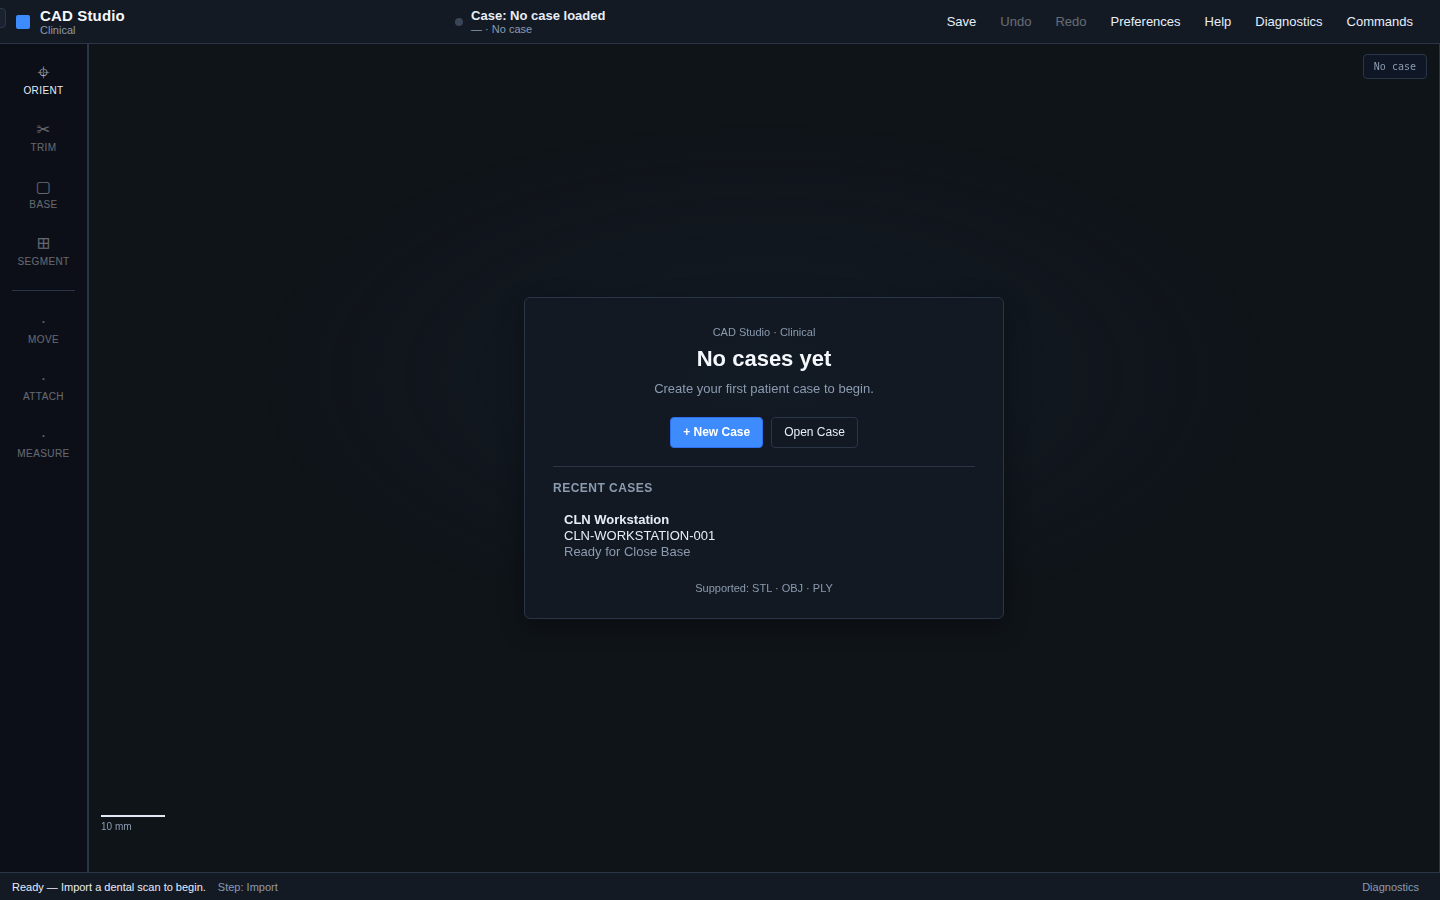
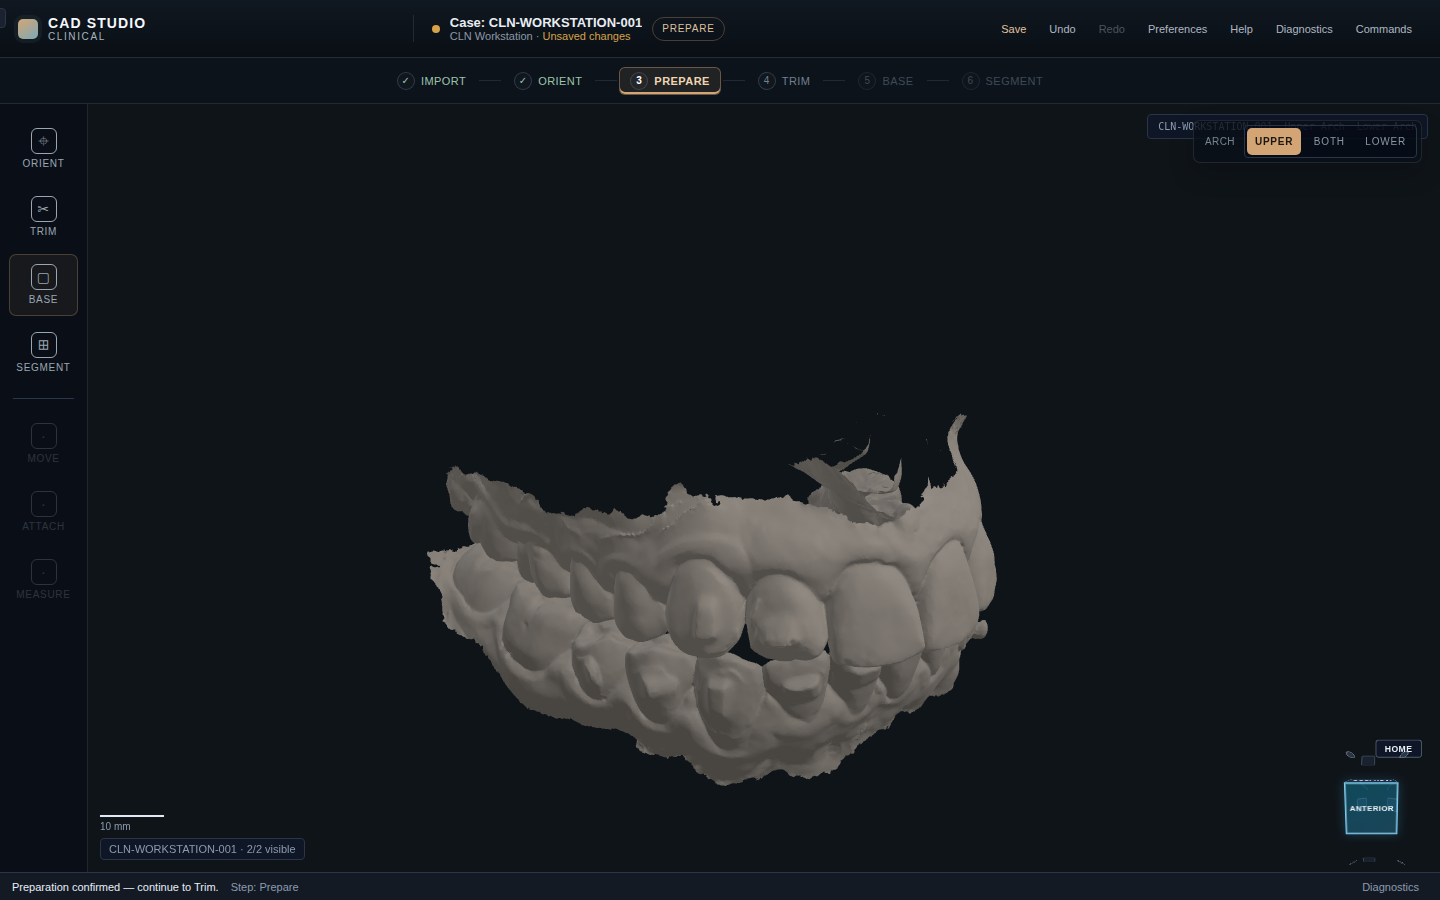
final fixes

diff --git a/apps/studio/src/clinical/trim/ClinicalTrimController.ts b/apps/studio/src/clinical/trim/ClinicalTrimController.ts
@@ -890,31 +890,6 @@ export class ClinicalTrimController {
     return backend instanceof HybridGeometryBackend ? backend : undefined;
   }
 
-  /** GEO-003: drawing/ops require warmed clinical spatial + context. */
-  private requireEditingReady(): ClinicalResult<void> {
-    const objectId = this.session.getState().targetObjectId as string | undefined;
-    const mesh = this.resolveWorkingMesh(objectId);
-    if (mesh === undefined) {
-      return clinicalFailure('not-found', 'No working geometry for trim target');
-    }
-    if (isGeometryEditingReady(mesh.objectId, mesh.fingerprint)) {
-      return clinicalSuccess(undefined);
-    }
-    const status = geometryWarmup.getStatus(mesh.objectId);
-    if (status?.state === 'FAILED' && status.geometryFingerprint === mesh.fingerprint) {
-      const msg = 'Editing tools could not be prepared.';
-      this.session.patchStatus(msg);
-      this.clinicalSession.notifyUi();
-      return clinicalFailure('unavailable', msg);
-    }
-    const msg =
-      getEditingReadinessMessage(mesh.objectId, mesh.fingerprint) ??
-      'Preparing editing tools…';
-    this.session.patchStatus(msg);
-    this.clinicalSession.notifyUi();
-    return clinicalFailure('unavailable', msg);
-  }
-
   private scheduleRewarm(mesh: TriangleMesh): void {
     const doc = this.clinicalSession.getPublicState().activeCase;
     const archRole = doc?.objects.find((o) => (o.id as string) === mesh.objectId)?.archRole;

diff --git a/apps/studio/src/geometry-kernel/adapters/VtkHttpWorkerBackend.ts b/apps/studio/src/geometry-kernel/adapters/VtkHttpWorkerBackend.ts
@@ -14,6 +14,7 @@ import {
   runGeometryQualityPipeline,
   type GeometryQualityReport
 } from '../quality/GeometryQualityPipeline.js';
+import { closeBaseMesh } from '../ops/closeBaseMesh.js';
 import { buildSpatialIndex, type SpatialIndex } from '../spatial/SpatialIndex.js';
 import {
   normalizeTrimKeepMode,
@@ -660,6 +661,24 @@ export class VtkHttpWorkerBackend implements AsyncGeometryBackend {
       fingerprint: fingerprintMesh(positions, indices)
     });
     const quality = runGeometryQualityPipeline(outMesh);
+    const reference = closeBaseMesh(mesh, options);
+    return {
+      ...reference,
+      warnings: [
+        ...reference.warnings,
+        'VTK close-base candidate replaced by Clinical Base V2 authoritative mesh'
+      ]
+    };
+    if (quality.stats.boundaryEdges > 0 || quality.stats.nonManifoldEdges > 0) {
+      return {
+        ...reference,
+        warnings: [
+          ...reference.warnings,
+          `VTK close-base rejected: boundary=${String(quality.stats.boundaryEdges)}`,
+          `VTK close-base rejected: nonManifold=${String(quality.stats.nonManifoldEdges)}`
+        ]
+      };
+    }
     const added = Number(parsed.added_triangles_est ?? 0);
     if (added <= 0) {
       throw new GeometryKernelError(

diff --git a/apps/studio/src/clinical/case/ClinicalCaseValidation.ts b/apps/studio/src/clinical/case/ClinicalCaseValidation.ts
@@ -244,6 +244,7 @@ export const validateClinicalCase = (
               vertexCount: 0,
               triangleCount: 0,
               boundaryEdges: 0,
+              nonManifoldEdges: 0,
               components: 0,
               degenerateCount: 0,
               duplicateVertexEstimate: 0

diff --git a/tools/geometry-backend-bench/vtk_clinical_spike.py b/tools/geometry-backend-bench/vtk_clinical_spike.py
@@ -884,6 +884,7 @@ def vtk_close_base(
     """
     from vtkmodules.vtkCommonCore import vtkPoints, vtkIdList
     from vtkmodules.vtkCommonDataModel import vtkPolyData, vtkCellArray
+    from vtkmodules.vtkFiltersCore import vtkCleanPolyData
     from vtkmodules.vtkFiltersCore import (
         vtkCleanPolyData,
         vtkAppendPolyData,
@@ -892,6 +893,7 @@ def vtk_close_base(
         vtkPolyDataNormals,
     )
     from vtkmodules.vtkFiltersGeneral import vtkContourTriangulator
+    from vtkmodules.vtkFiltersModeling import vtkFillHolesFilter
     from vtkmodules.vtkFiltersModeling import vtkLinearExtrusionFilter
     from vtkmodules.util.numpy_support import vtk_to_numpy, numpy_to_vtk
 
@@ -902,6 +904,17 @@ def vtk_close_base(
         return {"ok": False, "error": "Base generation could not produce a safe result.", "reason": "invalid direction"}
 
     direction = direction / np.linalg.norm(direction)
+
+    # Trimmed STL meshes can carry coincident boundary points from separate
+    # source triangles. Weld them before feature extraction so the clinical rim
+    # is treated as one topological loop.
+    input_clean = vtkCleanPolyData()
+    input_clean.SetInputData(poly)
+    input_clean.PointMergingOn()
+    input_clean.ToleranceIsAbsoluteOn()
+    input_clean.SetAbsoluteTolerance(1e-5)
+    input_clean.Update()
+    poly = input_clean.GetOutput()
 
     b = list(poly.GetBounds())
     before_diag = math.sqrt((b[1] - b[0]) ** 2 + (b[3] - b[2]) ** 2 + (b[5] - b[4]) ** 2)
@@ -1007,9 +1020,16 @@ def vtk_close_base(
     append.Update()
     clean = vtkCleanPolyData()
     clean.SetInputData(append.GetOutput())
+    clean.PointMergingOn()
+    clean.ToleranceIsAbsoluteOn()
+    clean.SetAbsoluteTolerance(1e-5)
     clean.Update()
+    fill = vtkFillHolesFilter()
+    fill.SetInputData(clean.GetOutput())
+    fill.SetHoleSize(float(max(before_diag * 100.0, height * 100.0)))
+    fill.Update()
     nrm = vtkPolyDataNormals()
-    nrm.SetInputData(clean.GetOutput())
+    nrm.SetInputData(fill.GetOutput())
     nrm.ConsistencyOn()
     nrm.AutoOrientNormalsOn()
     nrm.Update()
